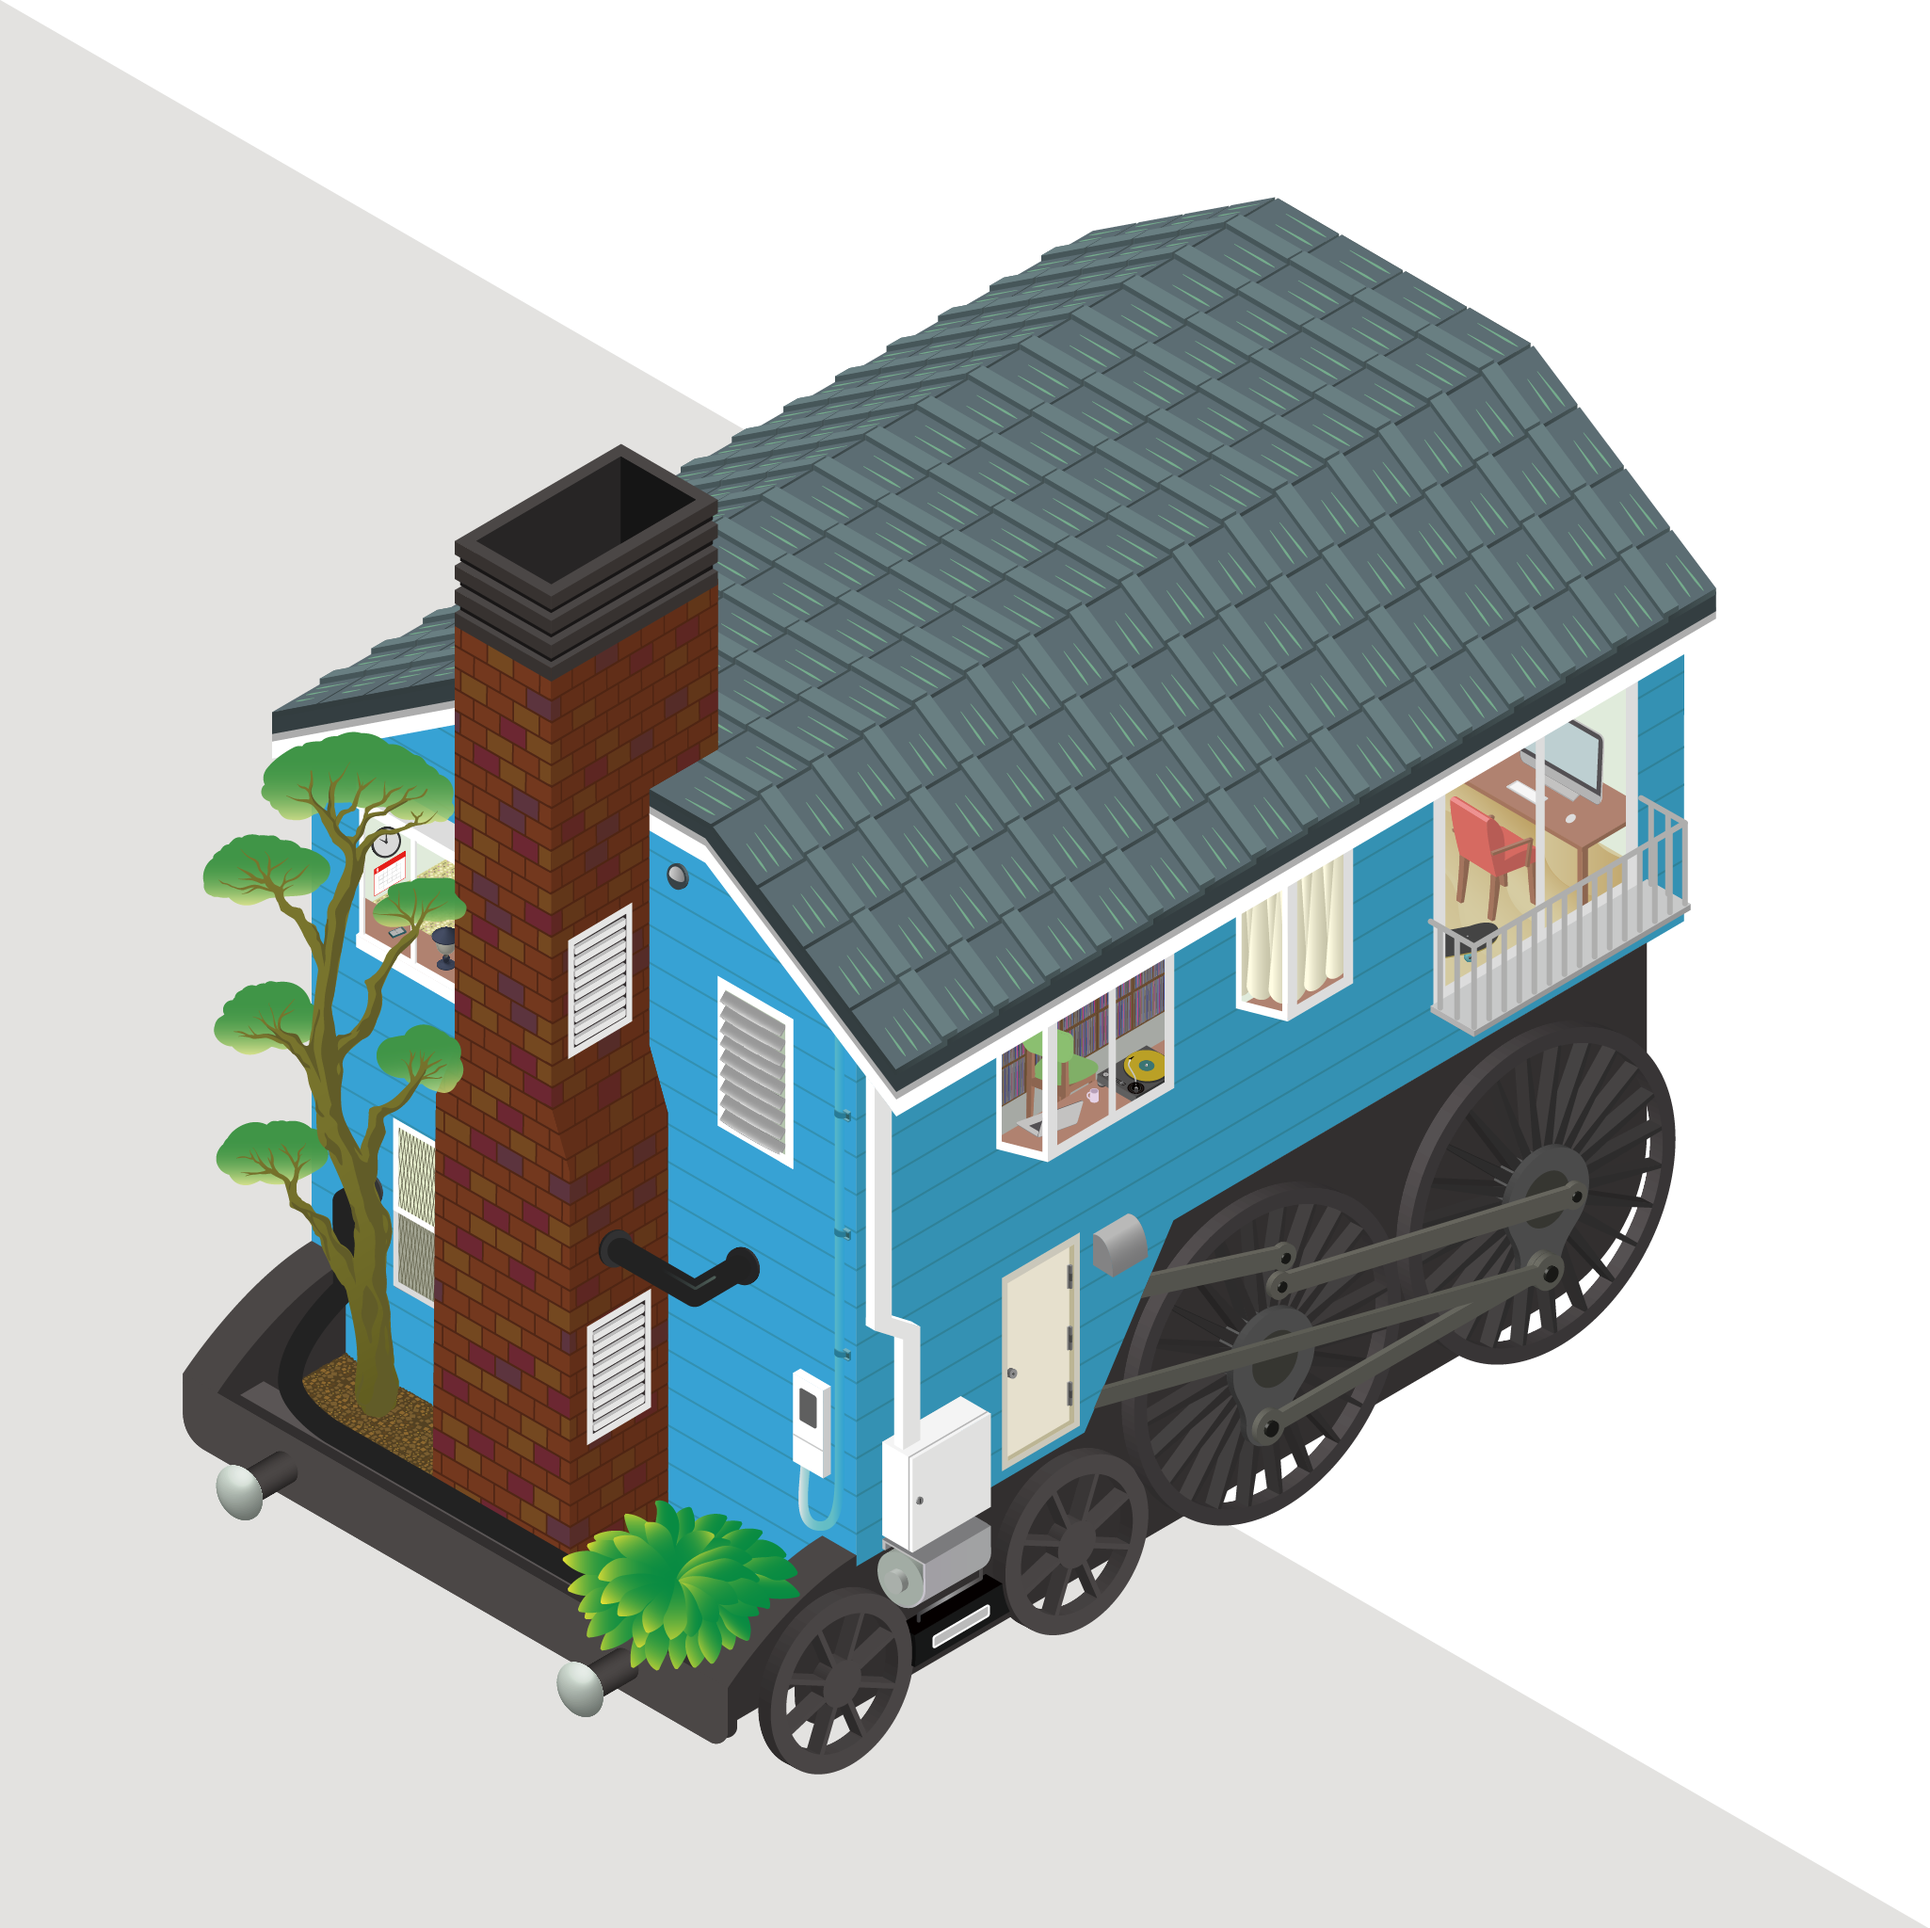
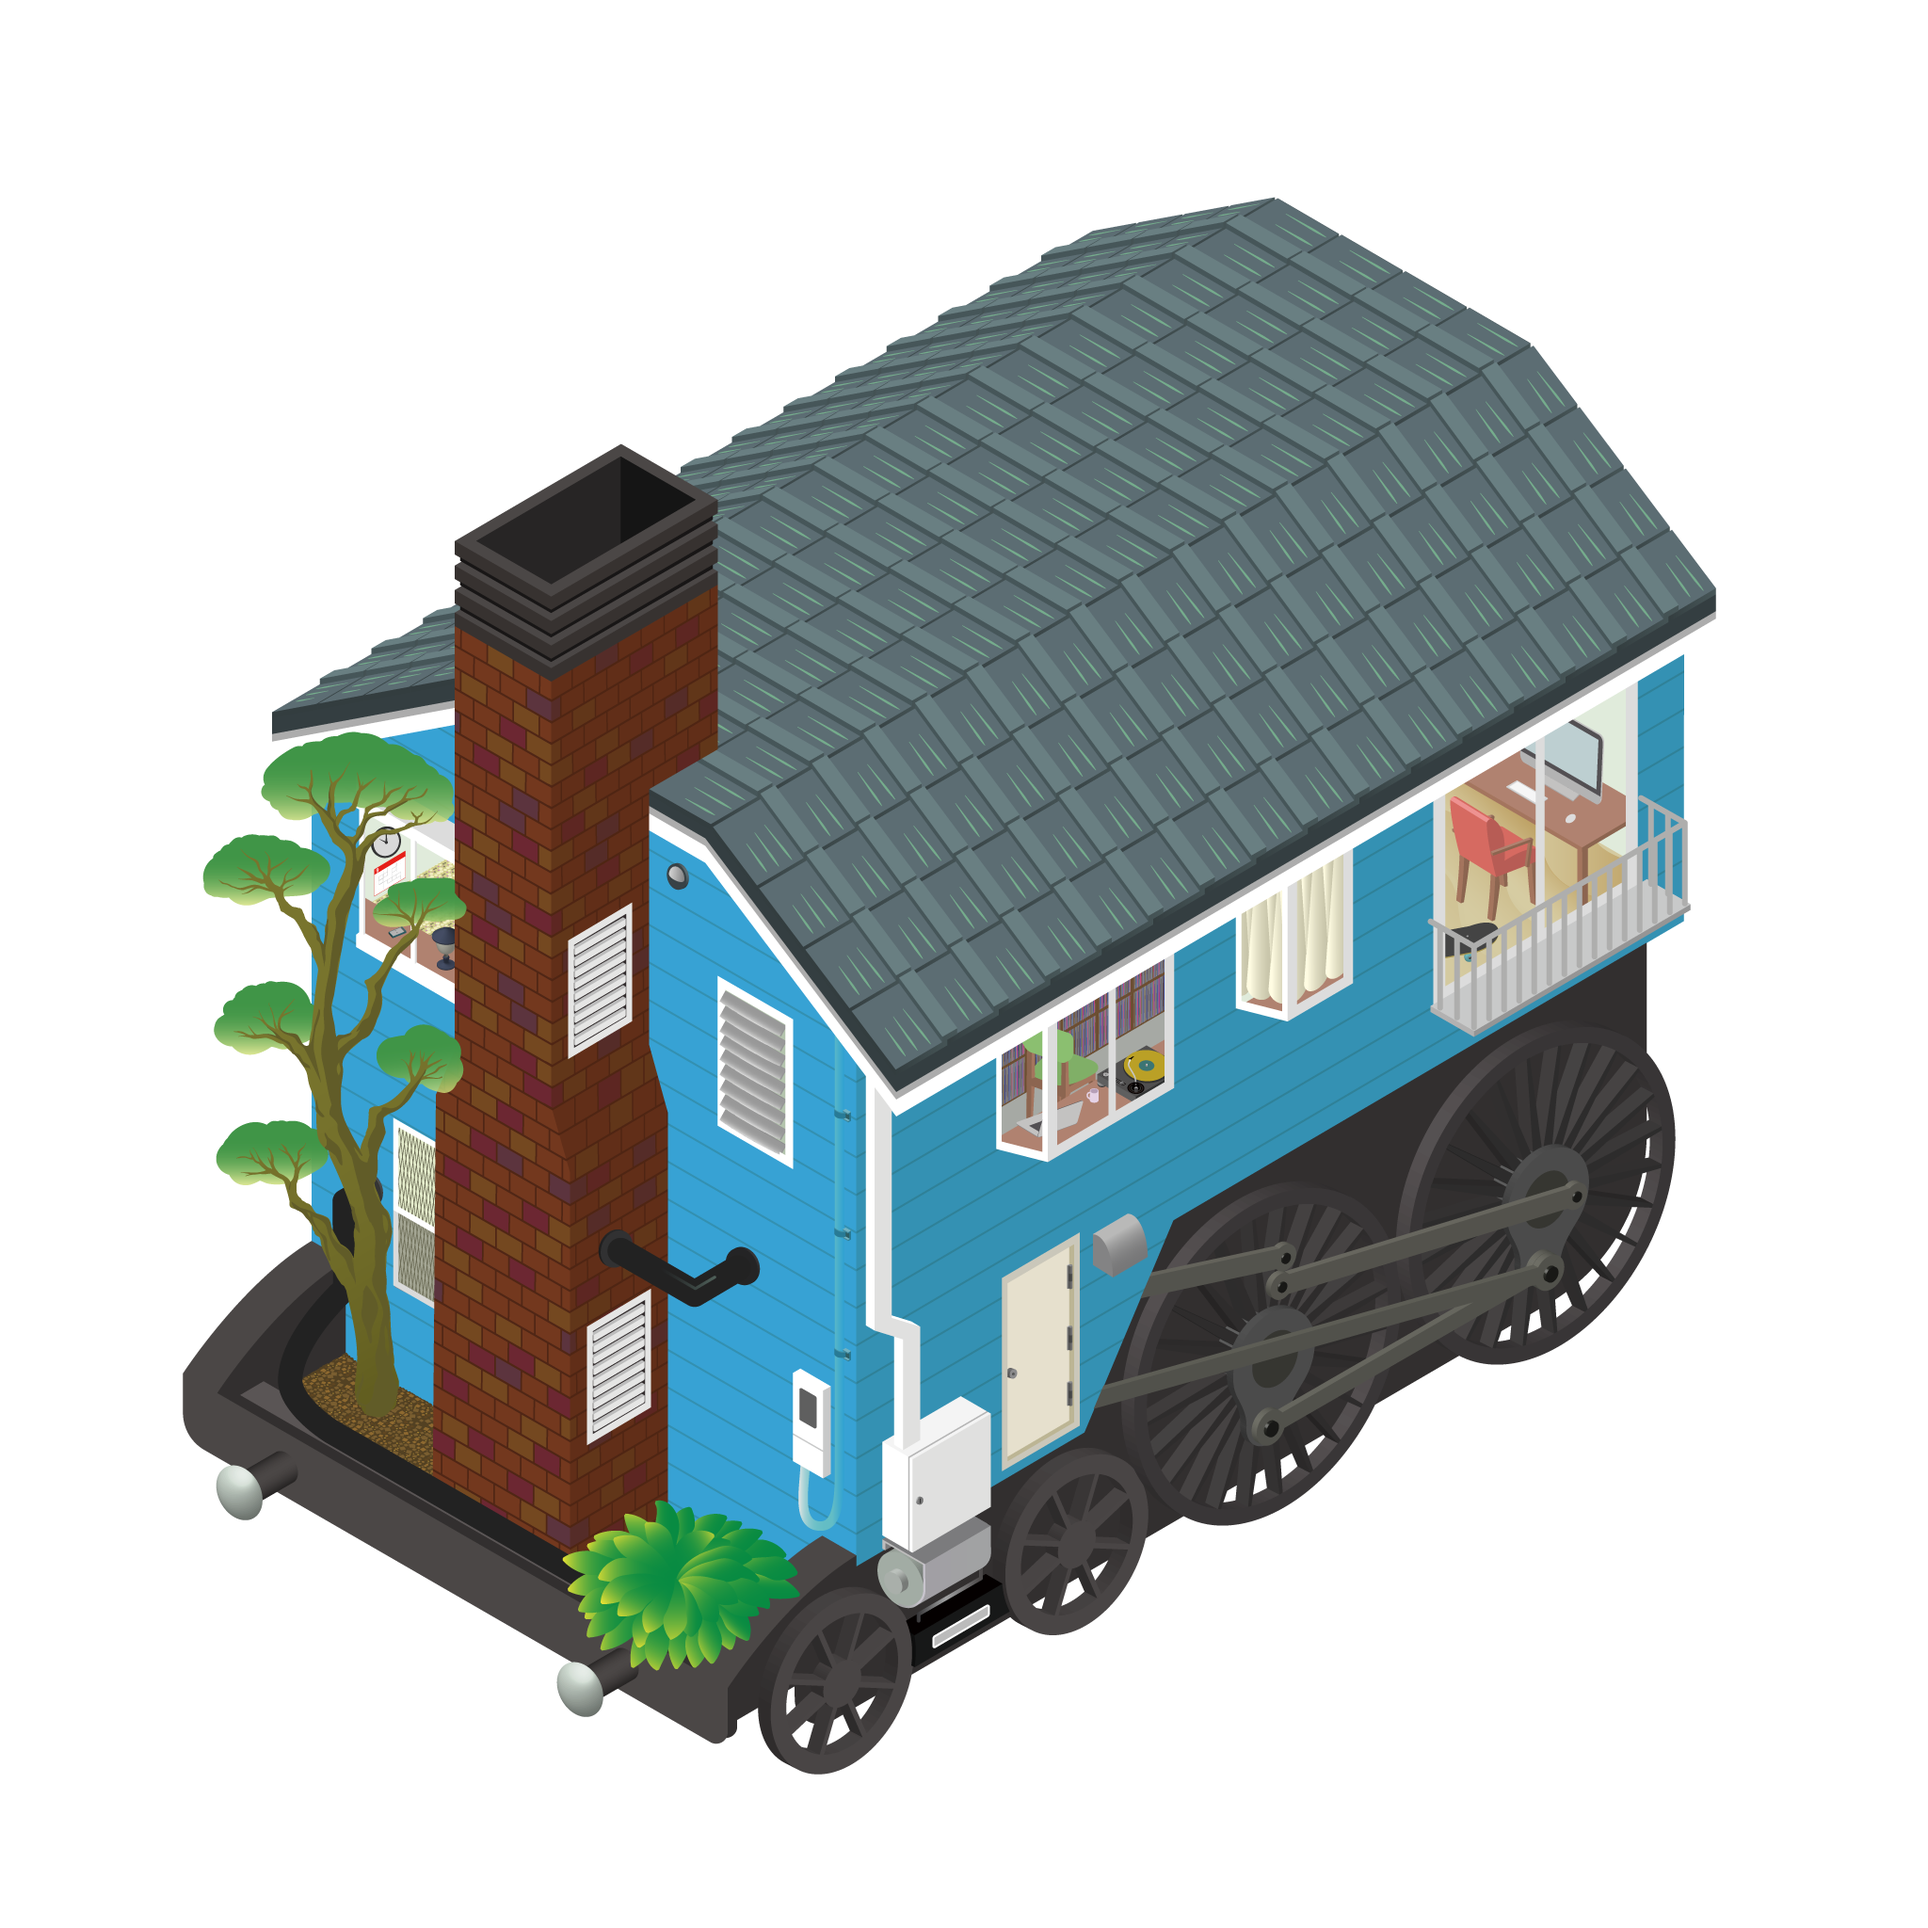
Optimize images

diff --git a/content/forchetta/dist/index.html b/content/forchetta/dist/index.html
@@ -3,7 +3,7 @@ title: Forchetta
 date: 2017-10-02T05:41:59+0900
 ---
 <div>
-  <div class="lazy-image" style="padding-bottom:138%" data-src="/art/forchetta/forchetta.jpg" data-alt="forchetta">
+  <div class="lazy-image" style="padding-bottom:138%" data-src="/art/forchetta/forchetta.jpg" data-src-webp="/art/forchetta/forchetta.webp" data-alt="forchetta">
     <noscript><img src="/art/forchetta/forchetta.jpg" alt="forchetta"></noscript>
   </div>
 </div>

diff --git a/content/index.html b/content/index.html
@@ -4,7 +4,7 @@ date: 2017-10-01T00:18:15+0900
 priority: 0.8
 ---
 <div class="home">
-  <div class="lazy-image home_illust" data-src="/art/home.png">
+  <div class="lazy-image home_illust" data-src="/art/home.png" data-src="/art/home.webp">
     <noscript><img src="/art/home.png" alt=""></noscript>
   </div>
   <div class="home_text">

diff --git a/src/css/main.css b/src/css/main.css
@@ -426,6 +426,7 @@ main {
     left: 0;
     max-height: 100%;
     max-width: 100%;
+    object-fit: cover;
     position: absolute;
     top: 0;
   }
